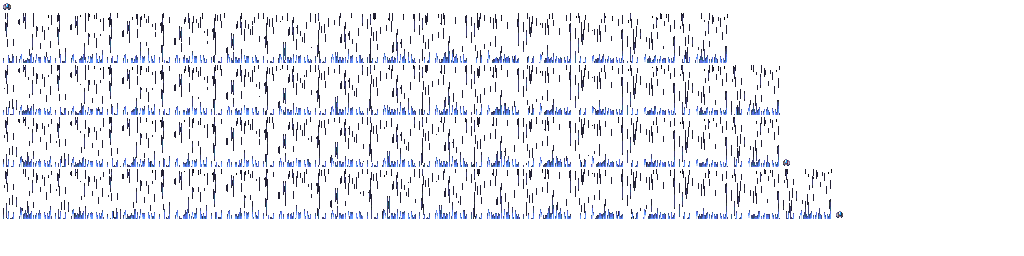
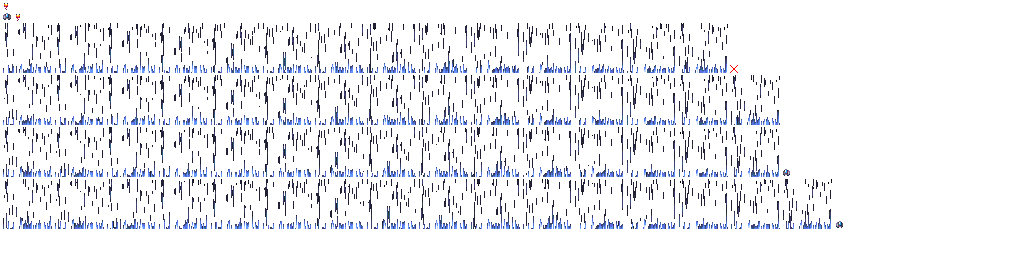
attach system

Changed region(s): [[0.0, 0.0, 0.8438, 0.9062]]

diff --git a/core/src/main/java/com/mygdx/darkmatter/ecs/system/AttachSystem.java b/core/src/main/java/com/mygdx/darkmatter/ecs/system/AttachSystem.java
@@ -1,0 +1,72 @@
+package com.mygdx.darkmatter.ecs.system;
+
+import com.badlogic.ashley.core.Engine;
+import com.badlogic.ashley.core.Entity;
+import com.badlogic.ashley.core.EntityListener;
+import com.badlogic.ashley.core.Family;
+import com.badlogic.ashley.systems.IteratingSystem;
+import com.mygdx.darkmatter.ecs.component.AttachComponent;
+import com.mygdx.darkmatter.ecs.component.GraphicComponent;
+import com.mygdx.darkmatter.ecs.component.RemoveComponent;
+import com.mygdx.darkmatter.ecs.component.TransformComponent;
+
+public class AttachSystem extends IteratingSystem implements EntityListener {
+
+    private static final Family FAMILY = Family.all(
+        AttachComponent.class,
+        TransformComponent.class,
+        GraphicComponent.class)
+        .get();
+
+    public AttachSystem() {
+        super(FAMILY);
+    }
+
+    @Override
+    public void addedToEngine(Engine engine) {
+        super.addedToEngine(engine);
+        engine.addEntityListener(this);
+    }
+
+    @Override
+    public void removedFromEngine(Engine engine) {
+        super.removedFromEngine(engine);
+        engine.removeEntityListener(this);
+    }
+
+    @Override
+    public void entityAdded(final Entity entity) {
+        // do nothing
+    }
+
+    @Override
+    public void entityRemoved(final Entity removedEntity) {
+        getEntities().forEach(entity -> {
+            final AttachComponent attachComponent = AttachComponent.MAPPER.get(entity);
+
+            if (attachComponent.entity == removedEntity) {
+                entity.add(getEngine().createComponent(RemoveComponent.class));
+            }
+        });
+    }
+
+    @Override
+    public void processEntity(final Entity entity, final float deltaTime) {
+        final AttachComponent attachComponent = AttachComponent.MAPPER.get(entity);
+        final GraphicComponent graphicComponent = GraphicComponent.MAPPER.get(entity);
+        final TransformComponent transformComponent = TransformComponent.MAPPER.get(entity);
+
+        final TransformComponent attachTransformComponent = TransformComponent.MAPPER.get(attachComponent.entity);
+
+        transformComponent.interpolatedPosition.set(
+            attachTransformComponent.interpolatedPosition.x + attachComponent.offset.x,
+            attachTransformComponent.interpolatedPosition.y + attachComponent.offset.y,
+            transformComponent.position.z
+        );
+
+        final GraphicComponent attachGraphicComponent = GraphicComponent.MAPPER.get(attachComponent.entity);
+
+        graphicComponent.sprite.setAlpha(attachGraphicComponent.sprite.getColor().a);
+
+    }
+}

diff --git a/core/src/main/java/com/mygdx/darkmatter/screen/GameScreen.java b/core/src/main/java/com/mygdx/darkmatter/screen/GameScreen.java
@@ -6,6 +6,7 @@ import com.badlogic.gdx.Input;
 import com.mygdx.darkmatter.DarkMatter;
 import com.mygdx.darkmatter.ecs.component.*;
 
+import static com.mygdx.darkmatter.DarkMatter.UNIT_SCALE;
 import static com.mygdx.darkmatter.DarkMatter.WORLD_WIDTH;
 import static com.mygdx.darkmatter.ecs.system.DamageSystem.DAMAGE_AREA_HEIGHT;
 
@@ -19,10 +20,10 @@ public class GameScreen extends AbstractScreen {
     public GameScreen(final DarkMatter game) {
         super(game);
 
-        final Entity entity = engine.createEntity();
+        final Entity playerShip = engine.createEntity();
 
         final TransformComponent transformComponent = engine.createComponent(TransformComponent.class);
-        transformComponent.setInitialPosition(4.5f, 8f, 0f);
+        transformComponent.setInitialPosition(4.5f, 8f, 1f);
 
         final MoveComponent moveComponent = engine.createComponent(MoveComponent.class);
 
@@ -32,13 +33,29 @@ public class GameScreen extends AbstractScreen {
 
         final FacingComponent facingComponent = engine.createComponent(FacingComponent.class);
 
-        entity.add(transformComponent);
-        entity.add(moveComponent);
-        entity.add(graphicComponent);
-        entity.add(playerComponent);
-        entity.add(facingComponent);
+        playerShip.add(transformComponent);
+        playerShip.add(moveComponent);
+        playerShip.add(graphicComponent);
+        playerShip.add(playerComponent);
+        playerShip.add(facingComponent);
 
-        engine.addEntity(entity);
+        engine.addEntity(playerShip);
+
+        final Entity fire = engine.createEntity();
+        final TransformComponent fireTransform = engine.createComponent(TransformComponent.class);
+        final AttachComponent attachComponent = engine.createComponent(AttachComponent.class);
+        attachComponent.entity = playerShip;
+        attachComponent.offset.set(1 * UNIT_SCALE, -6 * UNIT_SCALE);
+        final GraphicComponent fireGraphic = engine.createComponent(GraphicComponent.class);
+        final AnimationComponent fireAnimation = engine.createComponent(AnimationComponent.class);
+        fireAnimation.type = AnimationComponent.AnimationType.FIRE;
+
+        fire.add(fireTransform);
+        fire.add(attachComponent);
+        fire.add(fireGraphic);
+        fire.add(fireAnimation);
+
+        engine.addEntity(fire);
 
         final Entity darkMatter = engine.createEntity();
         final TransformComponent darkMatterTransform = engine.createComponent(TransformComponent.class);

diff --git a/core/src/main/java/com/mygdx/darkmatter/ecs/component/AttachComponent.java b/core/src/main/java/com/mygdx/darkmatter/ecs/component/AttachComponent.java
@@ -1,0 +1,21 @@
+package com.mygdx.darkmatter.ecs.component;
+
+import com.badlogic.ashley.core.Component;
+import com.badlogic.ashley.core.ComponentMapper;
+import com.badlogic.ashley.core.Entity;
+import com.badlogic.gdx.math.Vector2;
+import com.badlogic.gdx.utils.Pool;
+
+public class AttachComponent implements Component, Pool.Poolable {
+
+    public static final ComponentMapper<AttachComponent> MAPPER = ComponentMapper.getFor(AttachComponent.class);
+
+    public Entity entity = null;
+    public Vector2 offset = new Vector2();
+
+    @Override
+    public void reset() {
+        entity = null;
+        offset.set(0, 0);
+    }
+}

diff --git a/core/src/main/java/com/mygdx/darkmatter/DarkMatter.java b/core/src/main/java/com/mygdx/darkmatter/DarkMatter.java
@@ -49,6 +49,7 @@ public class DarkMatter extends Game {
             graphicsAtlas.findRegion("ship_left"),
             graphicsAtlas.findRegion("ship_right"))
         );
+        engine.addSystem(new AttachSystem());
         engine.addSystem(new AnimationSystem(graphicsAtlas));
         engine.addSystem(new RenderSystem(batch, viewport));
         engine.addSystem(new RemoveSystem());

diff --git a/core/src/main/java/com/mygdx/darkmatter/ecs/component/AnimationComponent.java b/core/src/main/java/com/mygdx/darkmatter/ecs/component/AnimationComponent.java
@@ -25,7 +25,8 @@ public class AnimationComponent implements Component, Pool.Poolable {
 
     public enum AnimationType {
         NONE(""),
-        DARK_MATTER("dark_matter", Animation.PlayMode.LOOP, 1f);
+        DARK_MATTER("dark_matter", Animation.PlayMode.LOOP, 1f),
+        FIRE("fire");
 
         AnimationType(final String atlasKey) {
             this.atlasKey = atlasKey;
